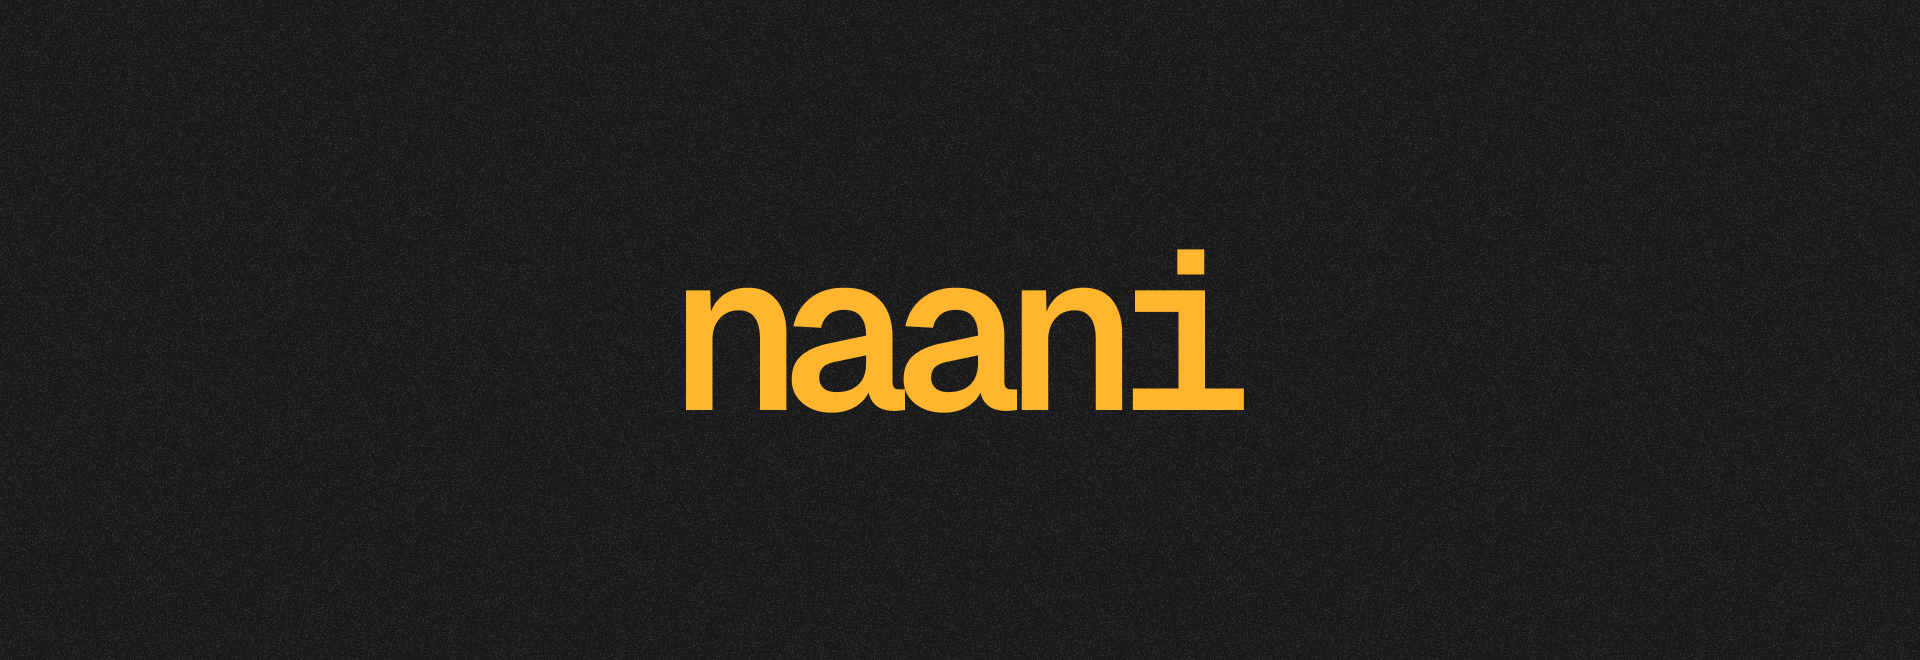
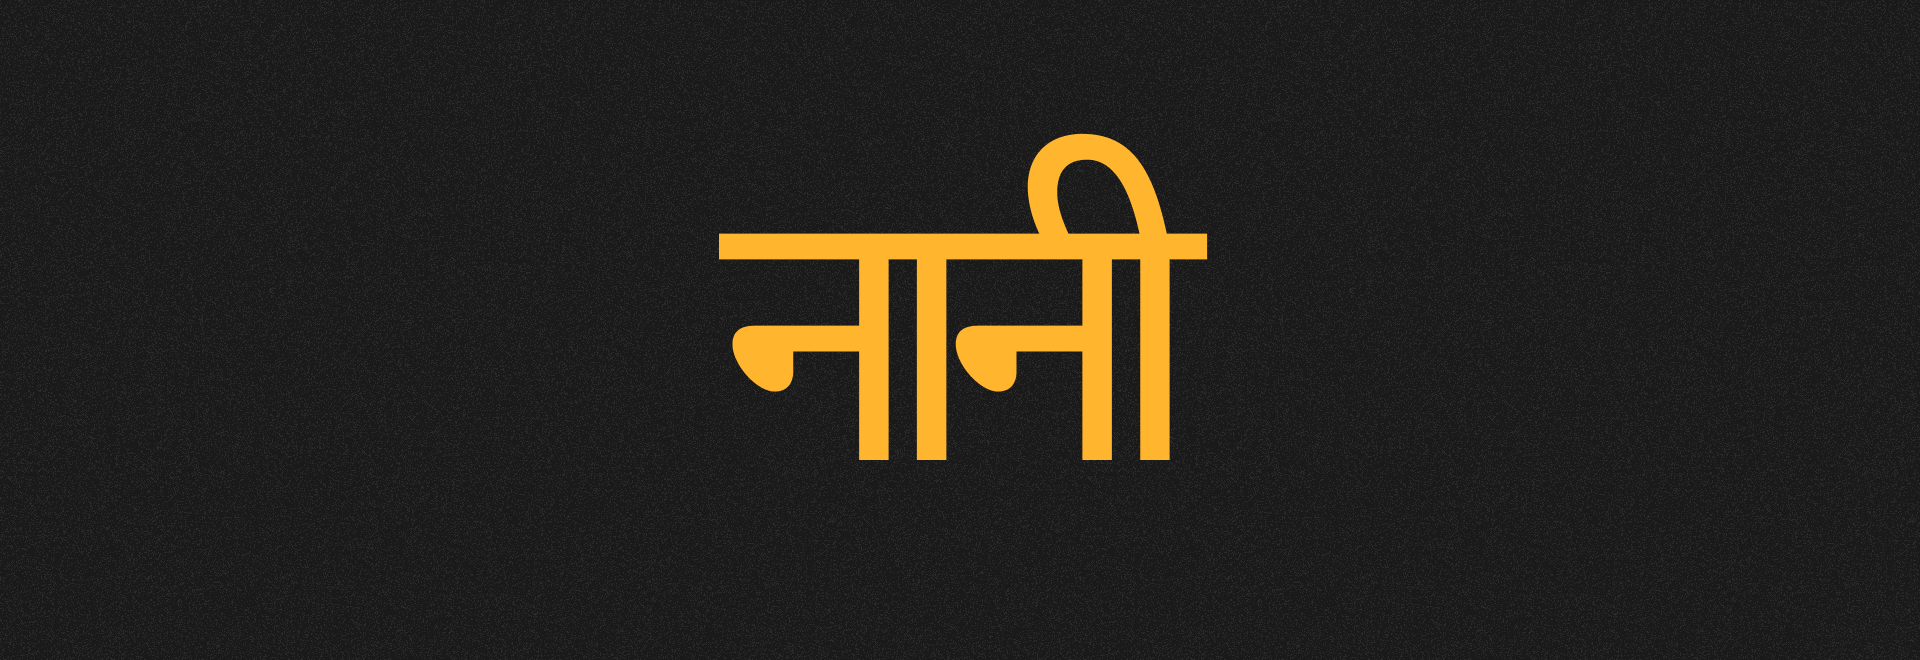
chore: docs update.

Changed region(s): [[0.3438, 0.1818, 0.6562, 0.697]]

diff --git a/README.md b/README.md
@@ -1,7 +1,9 @@
 <img src="./assets/banner.png" alt="naani" />
 
 ## Info
-Naani was born out of an idea to reduce the hassle for people in many remote areas of Nepal to instantly check for cataracts using just a photo of their eye. </br> With the growing accessibility of mobile phones, it’s now a more practical solution than traveling to urban areas for a checkup. Fr a genuine effort from our side.
+Naani (meaning "eye" in Nepali) was born out of an idea to help people in remote areas of Nepal quickly check for cataracts using a simple photo.</br>
+With increasing mobile phone access, it offers a more practical solution than traveling to city areas for a checkup.<br>
+Genuinely, An honest effort from our side.
 
 ## Model Architecture
 <img src="./assets/arch.png" alt="naani" />
